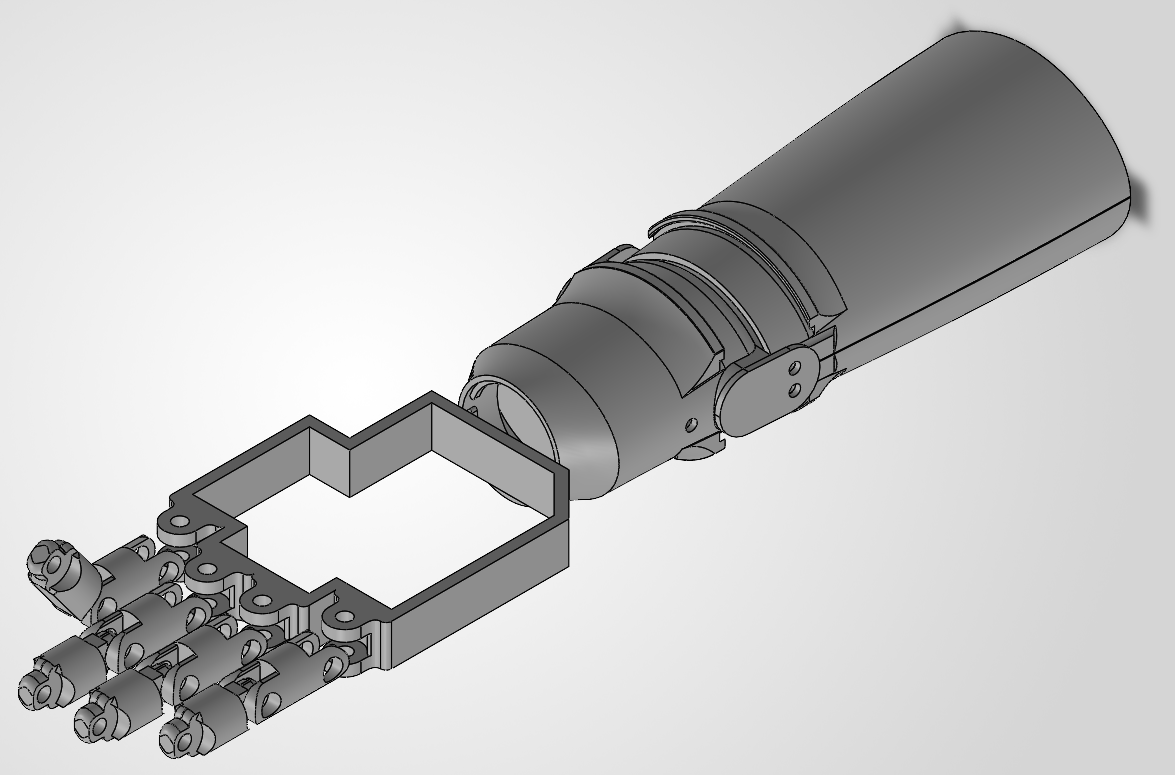
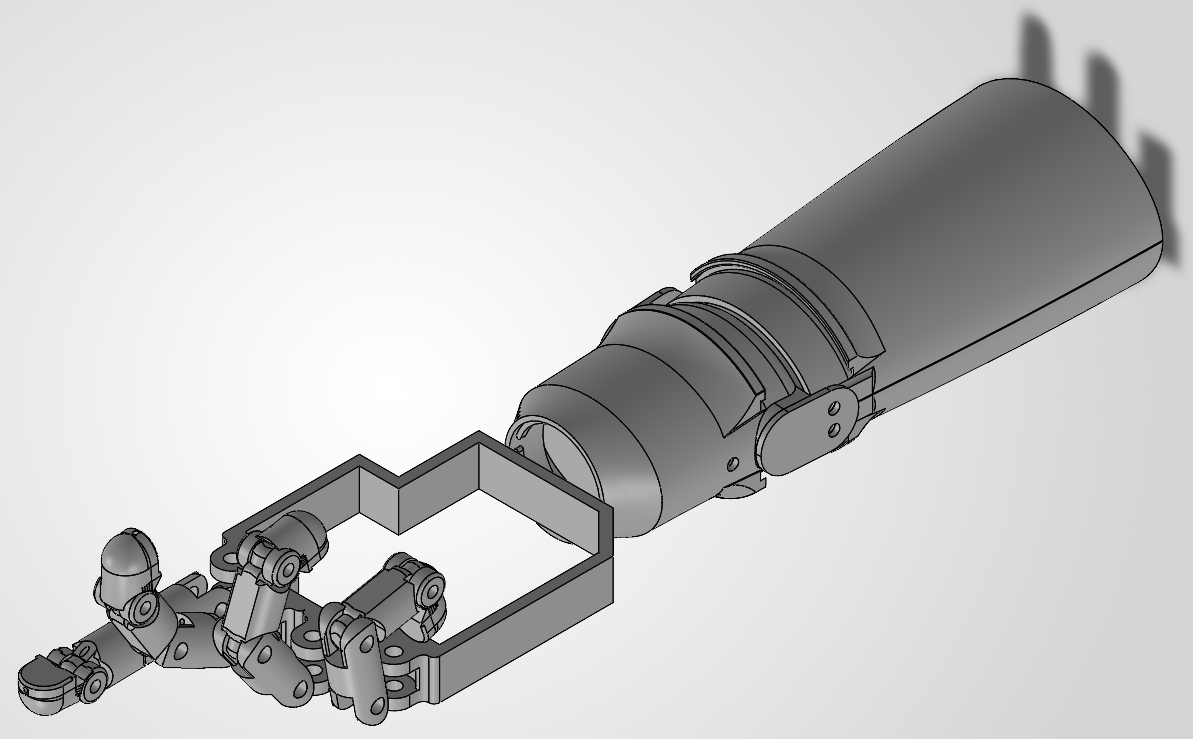
Update full arm assembly image and reorder Baja role titles

Changed region(s): [[0.0, 0.0, 1.0, 0.9959]]

diff --git a/src/content/projects/baja.ts b/src/content/projects/baja.ts
@@ -19,7 +19,7 @@ const baja = {
   summary:
     "I am designing an easily adjustable brake pedal assembly, capable of fitting all four of our drivers during the Baja SAE 4-hour endurance race.",
   status: 'In Progress', // label on the project card and Projects dropdown; delete when the project is done
-  role: 'Vice-Captain | Ergonomics Lead Engineer | Co-Founder ',
+  role: 'Vice-Captain | Co-Founder | Ergonomics Lead Engineer',
   timeline: 'March 2025 – Present',
   team: 'Ergonomics',
   tags: ['Vehicle Design', 'CAD', 'FEA', 'Manufacturing'],
